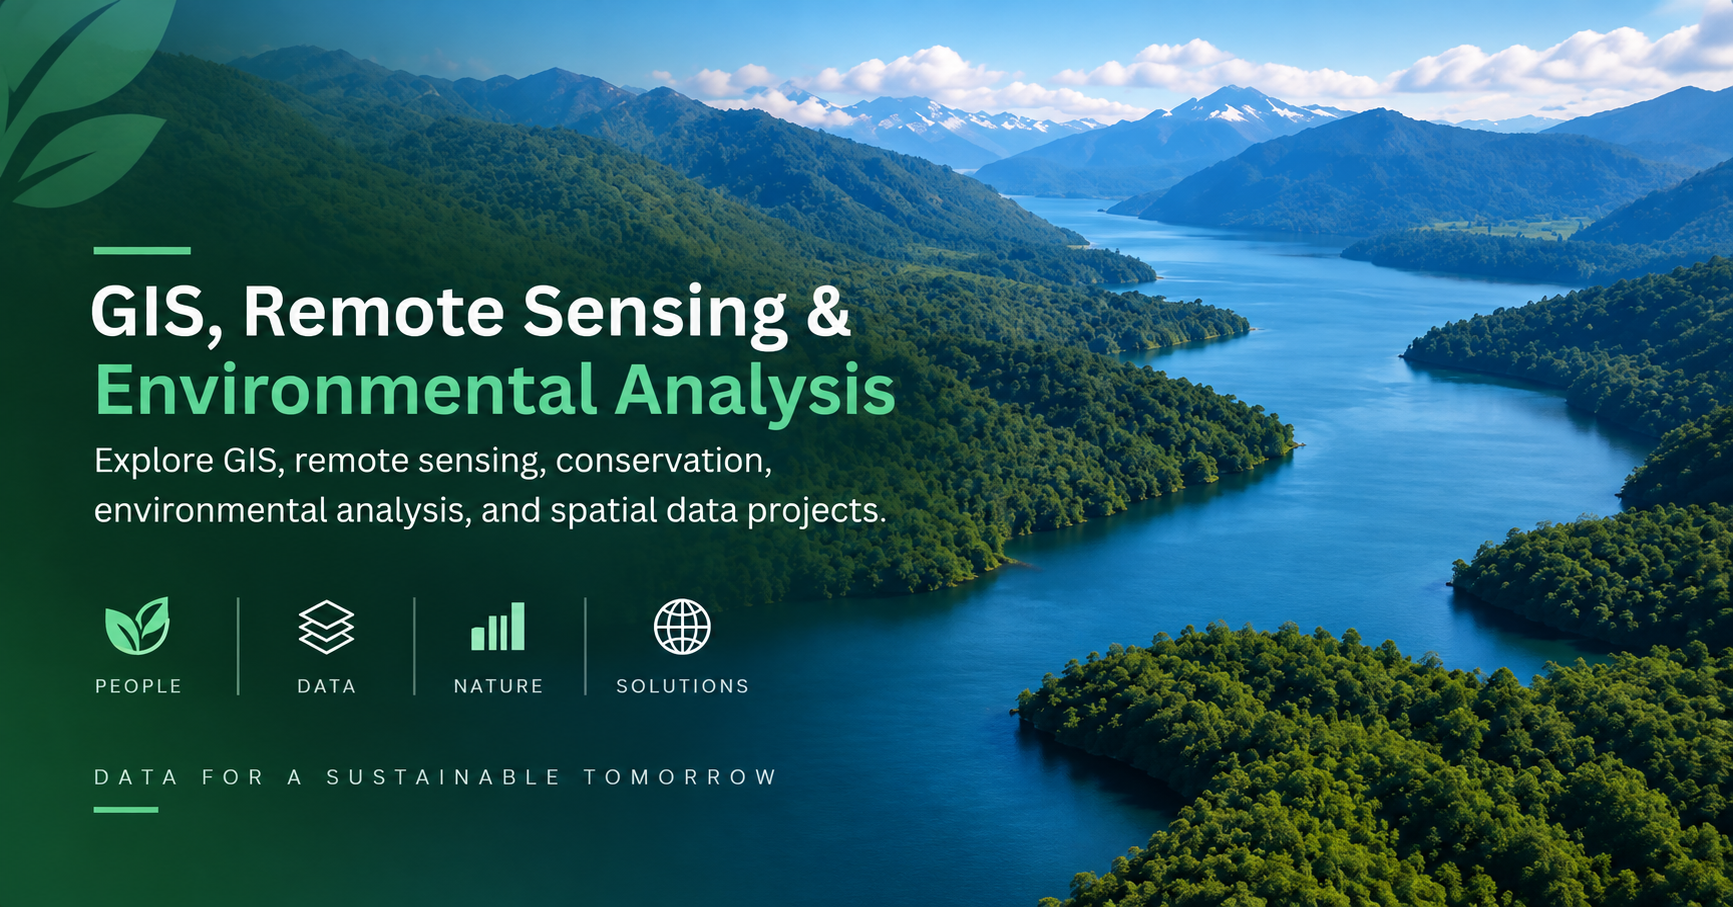
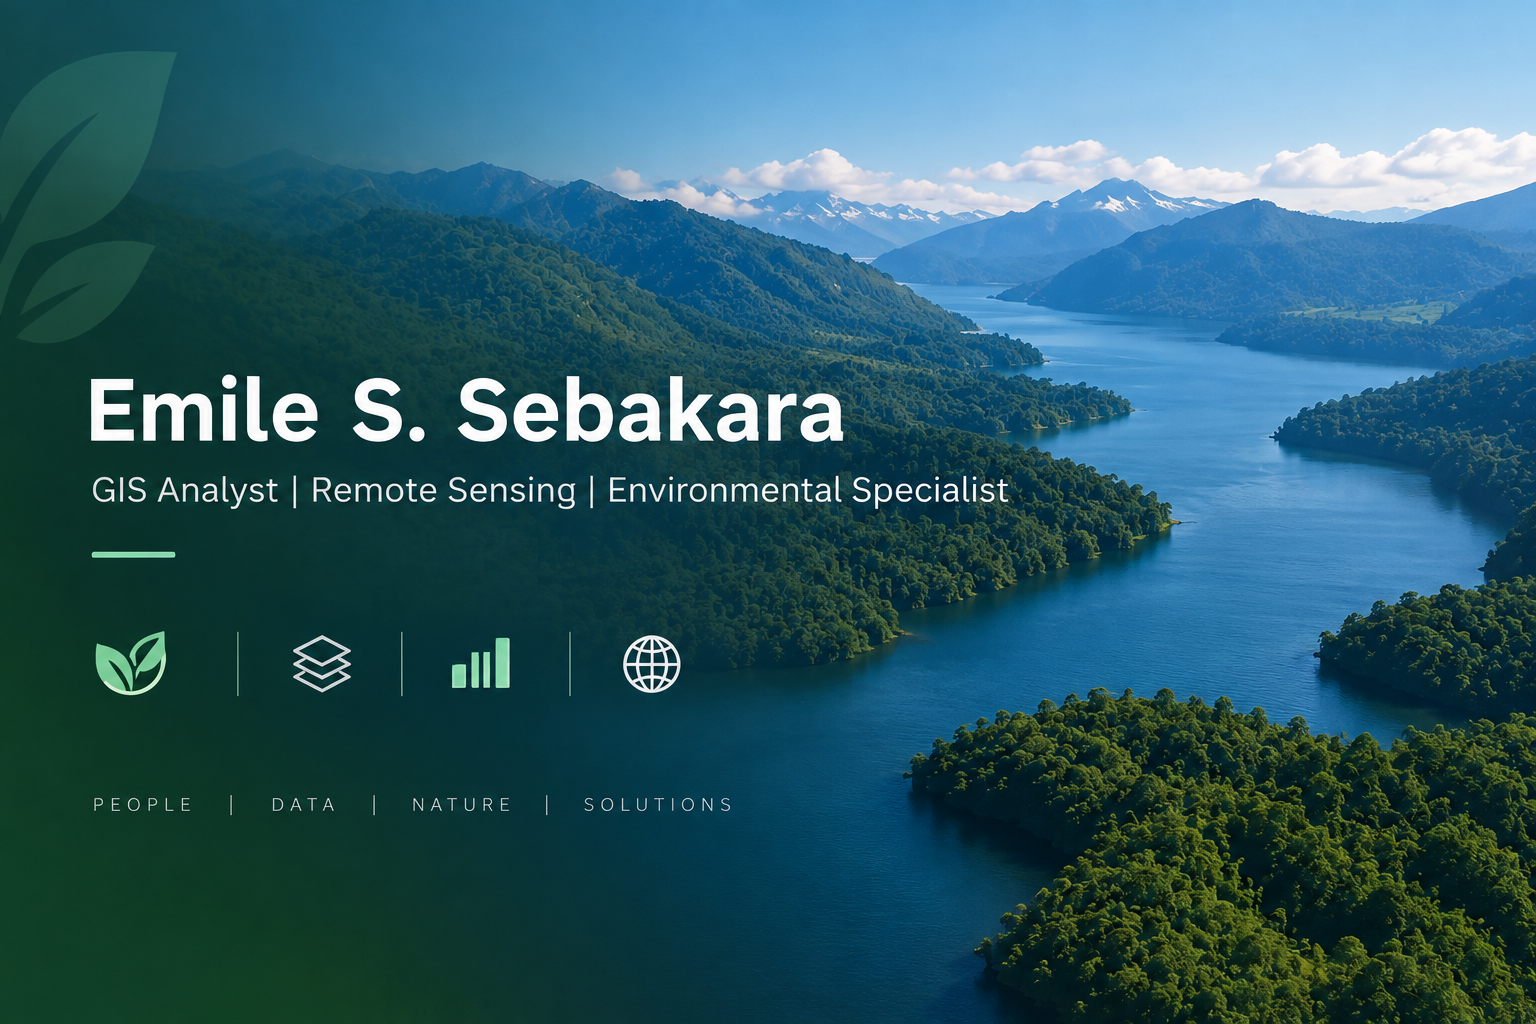
update portfolio preview image and add new images

diff --git a/index.html b/index.html
@@ -138,6 +138,29 @@
 
 							<div class="row">
 								<div class="row">
+<!-- 2. Hornbill Distribution Map -->
+<div class="col-4 col-12-mobile">
+    <article class="item">
+
+        <a href="Hornbill_map.png" class="image fit lightbox">
+            <img src="Hornbill_map.png"
+                 alt="Hornbill Distribution Map of the Congo Basin" />
+        </a>
+
+        <header>
+            <h3>Hornbill Distribution Map</h3>
+
+            <p>
+                <a href="https://rcmrdtraining.maps.arcgis.com/apps/mapviewer/index.html?webmap=085b424b9d334de8a2c610255d148419"
+                   target="_blank"
+                   rel="noopener">
+                    For the Map →
+                </a>
+            </p>
+        </header>
+
+    </article>
+</div>
 <!-- 1. Hornbills of the Congo Basin -->
 <div class="col-4 col-12-mobile">
     <article class="item">
@@ -151,7 +174,7 @@
             <h3>Hornbills of the Congo Basin</h3>
 
             <p>
-                <a href="https://storymaps.arcgis.com/stories/93f8fbe3df8844eab13721fd76de2791"
+                <a href="https://arcg.is/1zzrae1"
                    target="_blank"
                    rel="noopener">
                     For the StoryMap →
